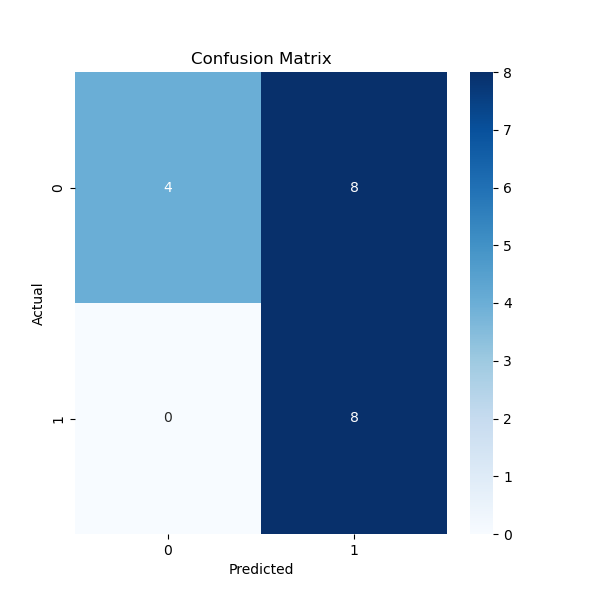
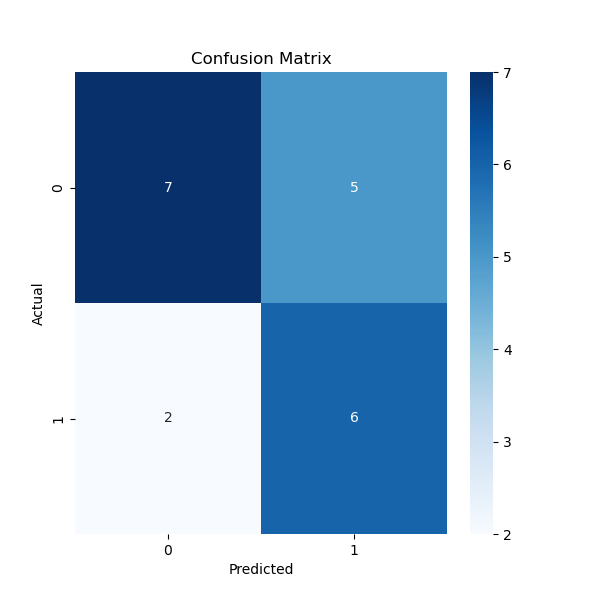
randomforest

diff --git a/dt.py b/dt.py
@@ -3,6 +3,7 @@ from mlflow.models.signature import infer_signature
 import mlflow
 import pandas as pd
 from sklearn.tree import DecisionTreeClassifier
+from sklearn.ensemble import RandomForestClassifier
 import matplotlib.pyplot as plt
 import seaborn as sns
 from sklearn.model_selection import train_test_split
@@ -28,18 +29,20 @@ y = df.iloc[:, -1]
 X_train, X_test, y_train, y_test = train_test_split(X, y, test_size=0.2, random_state=42)
 
 max_depth = 3
+n_estimators = 100
 # Set the tracking URI
-mlflow.set_experiment('student-performance-dt')
+mlflow.set_experiment('experiment_by_ballu_randomforest')
 
 with mlflow.start_run(run_name='decision-tree-experimentation'):
 
-    dt = DecisionTreeClassifier(max_depth=max_depth)
+    # dt = DecisionTreeClassifier(max_depth=max_depth)
+    rf = RandomForestClassifier(max_depth=max_depth, n_estimators=n_estimators)
 
-    dt.fit(X_train, y_train)
+    rf.fit(X_train, y_train)
 
-    y_pred = dt.predict(X_test)
+    y_pred = rf.predict(X_test)
 
-    signature = infer_signature(X_train, dt.predict(X_train))
+    signature = infer_signature(X_train, rf.predict(X_train))
     
     input_example = input_example = X_train.iloc[:5, :]
     
@@ -49,7 +52,7 @@ with mlflow.start_run(run_name='decision-tree-experimentation'):
     mlflow.log_metric("f1_score", f1_score(y_test, y_pred))
     mlflow.log_param('max_depth', max_depth)
 
-    mlflow.set_tag("author", "kallu")
+    mlflow.set_tag("author", "ballu")
     cm = confusion_matrix(y_test, y_pred)
     
     plt.figure(figsize=(6,6))
@@ -66,7 +69,7 @@ with mlflow.start_run(run_name='decision-tree-experimentation'):
     
     mlflow.log_artifact(__file__)
     
-    mlflow.sklearn.log_model(dt, 'decision_tree_with_dagshub2', signature=signature, input_example=input_example)
+    mlflow.sklearn.log_model(rf, 'random_forest_with_dagshub2', signature=signature, input_example=input_example)
 
 
 
